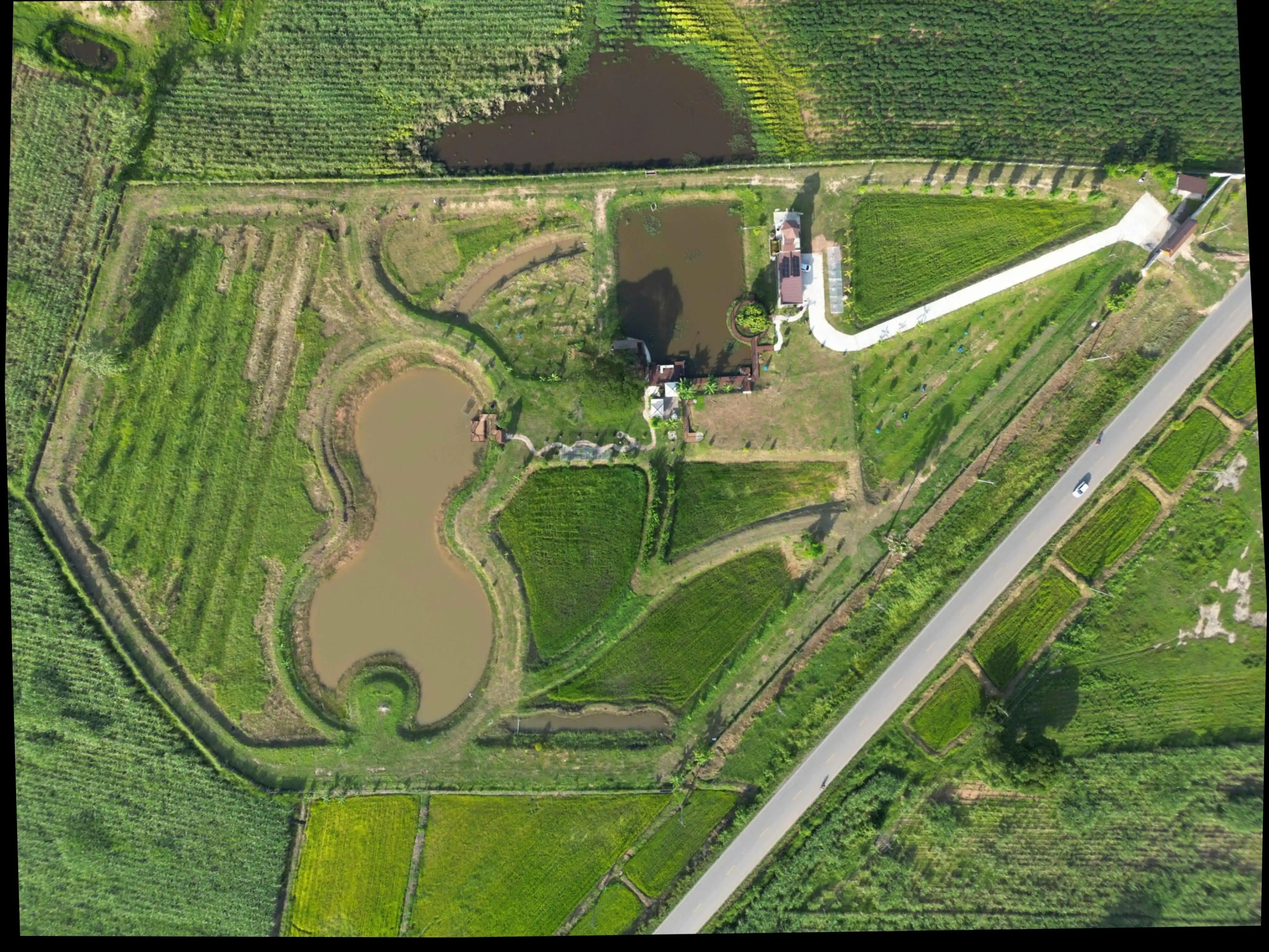
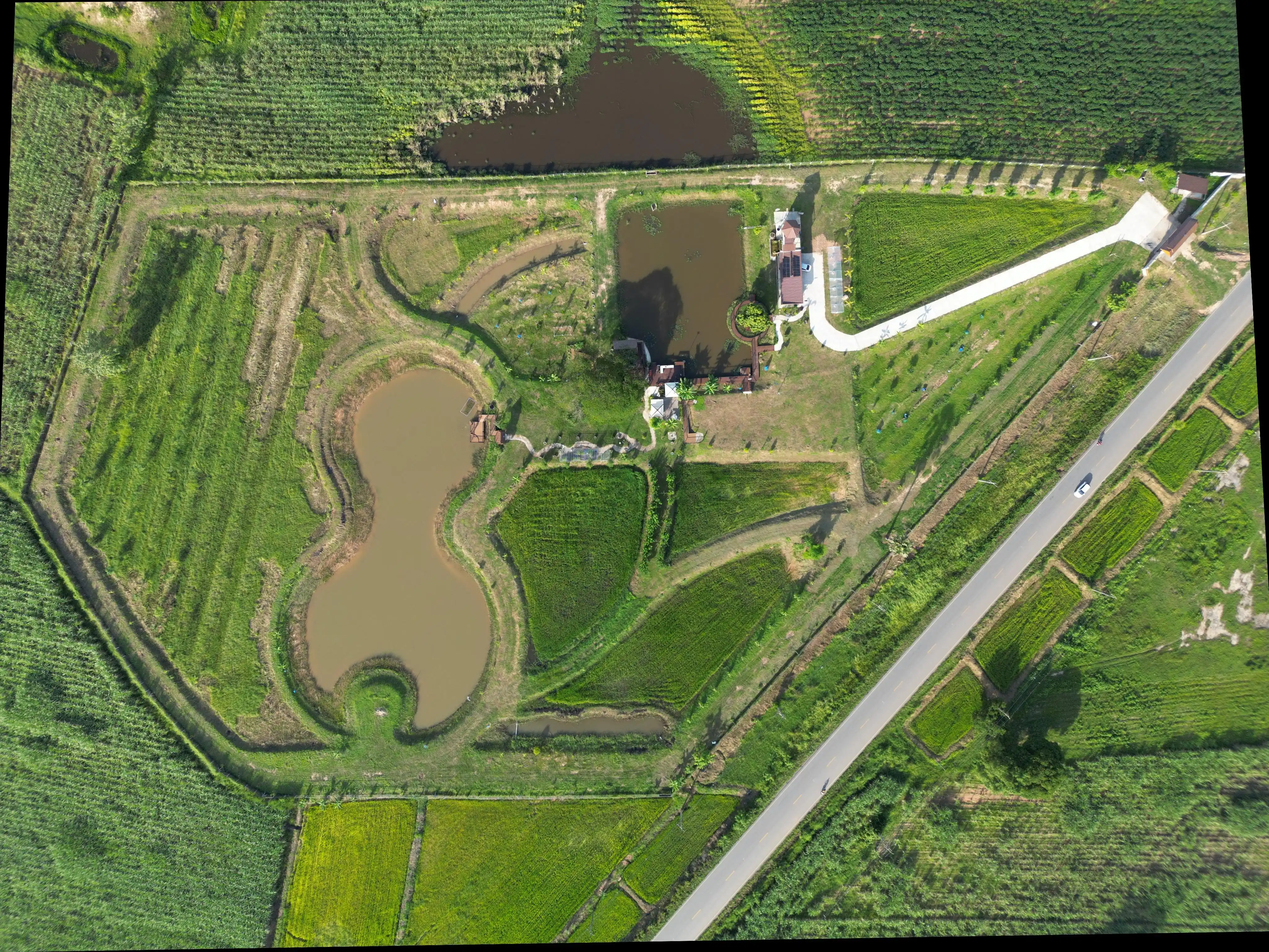
add 84 85

diff --git a/PythonScpt/main.py b/PythonScpt/main.py
@@ -21,7 +21,7 @@ img_original_count = count_image_file(gp(img_original_path), "*.jpg")
 ###############################################################################
 # change below
 ALLOW_PERCENT = 0.01
-KEYPOINT = 20200
+KEYPOINT = 30200
 DELETE_OLD_IMG = True
 # end need to change
 ###############################################################################

diff --git a/README.md b/README.md
@@ -13,7 +13,7 @@ CompareWeb: [ImageCompare](https://pruekjika.github.io/GardenImgDB/)
 
 ## ที่ต้องทำ
 
-1. upload `raw_image` ภาพใหญ่ลง database onedrive https://kkumail-my.sharepoint.com/:f:/p/nattapongtang/EqQLLNfFRGJFphdrPYlCaF0B2D0Oh5VBAn5-VcLupwrMyw?e=L6f01H
+1. upload `raw_image` ภาพใหญ่ลง database onedrive https://kkumail-my.sharepoint.com/:f:/p/nattapongtang/EqQLLNfFRGJFphdrPYlCaF0B2D0Oh5VBAn5-VcLupwrMyw?e=L6f01H กดเข้าได้ที่ https://www.microsoft365.com/onedrive/?from=PortalHome
 2. แก้ภาพให้ตรงกันโดย นำ `__ref` และ `ที่ต้องการจะแก้.jpg` ไปไว้ใน `P-FixingImg-big` (เลือก ref จาก https://kkumail-my.sharepoint.com/:f:/p/nattapongtang/EkM0ZmWS6OlBmL3nbDdIvU0Bh8Rl7Ec9tB7EdT2lznck-Q?e=wYcaJh)
 3. run `main.py` เพื่อทำการ fix image
 4. ถ้าไฟล์ภาพทำได้ไม่มีปัญหา ให้เราใช้ file converter แปลงมันให้เป็น .webp
